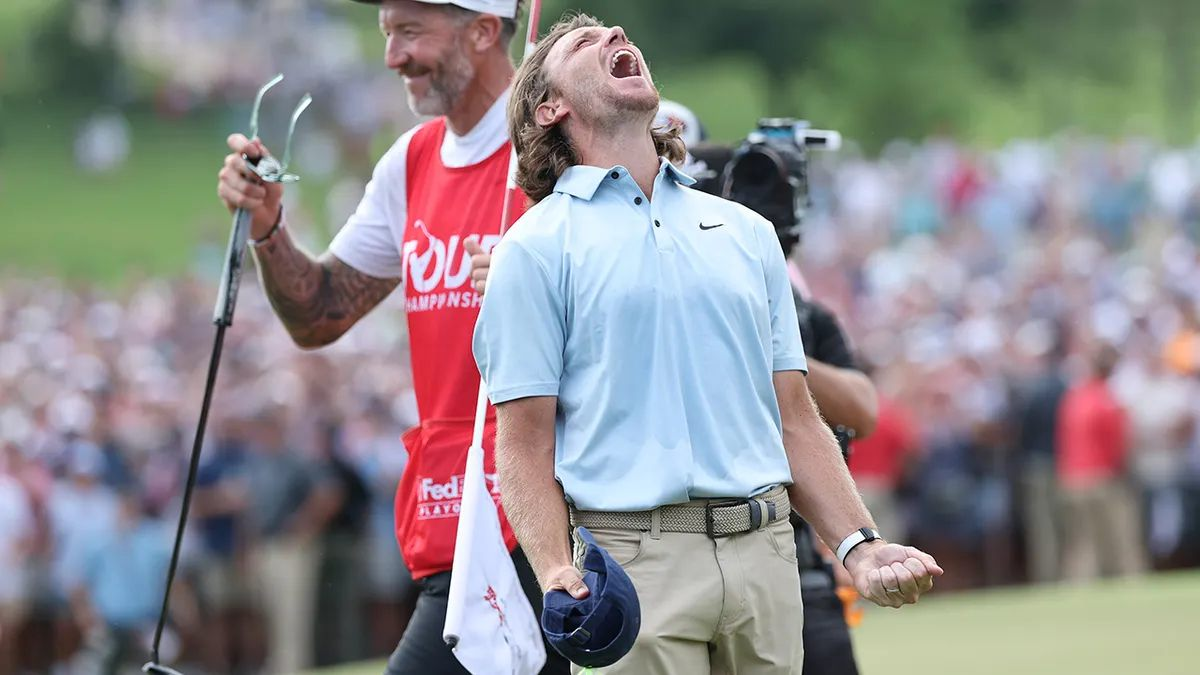
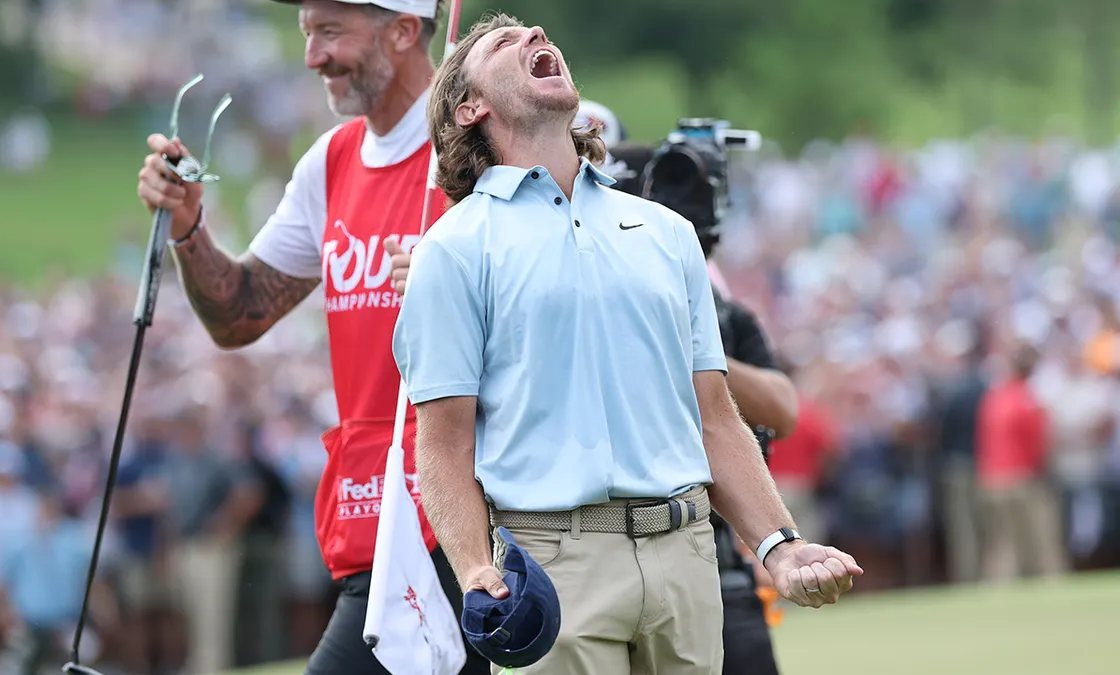
Centre the players: Fleetwood and Scheffler cropped to 50%
Wide plates crop horizontally under cover at every viewport, so the
subject is centred in-file once and holds on desktop and mobile alike.
Fleetwood re-cropped from the source (caddie to the edge), Scheffler
from the full-res avif (caddie and bag out, clubhouse behind him).
?v=2 on both plates; the per-slide object-position override retires.

diff --git a/src/styles/app.css b/src/styles/app.css
@@ -595,9 +595,9 @@ h3.display {
 .hero-slide.is-on {
   opacity: 1;
 }
-.hero-slide:nth-of-type(3) {
-  object-position: 50% 30%; /* fleetwood — keep the figure in a portrait crop */
-}
+/* Player plates are cropped in-file so the subject sits at 50% — with wide
+   plates cover only ever crops horizontally, so in-file centring holds at
+   every viewport and no per-slide object-position is needed. */
 /* The veil owns ALL muting: photographs are a muted plate under parchment,
    never a full-strength backdrop. Strongest where the text mass sits (display
    centre, meta rail + buttons low), clearest above the logo. Ink display text

diff --git a/src/pages/home.js b/src/pages/home.js
@@ -23,8 +23,8 @@ const BASE_URL = (import.meta.env?.BASE_URL || '/').replace(/\/*$/, '/');
 const HERO_BACKDROPS = [
   'hero/east-lake-seventh.jpg?v=1',
   'hero/east-lake-aerial.jpg?v=1',
-  'hero/fleetwood-tour-championship.jpg?v=1',
-  'hero/tour-championship-04.jpg?v=1',
+  'hero/fleetwood-tour-championship.jpg?v=2',
+  'hero/tour-championship-04.jpg?v=2',
 ];
 
 /** Phase-aware status line for the featured event. */
